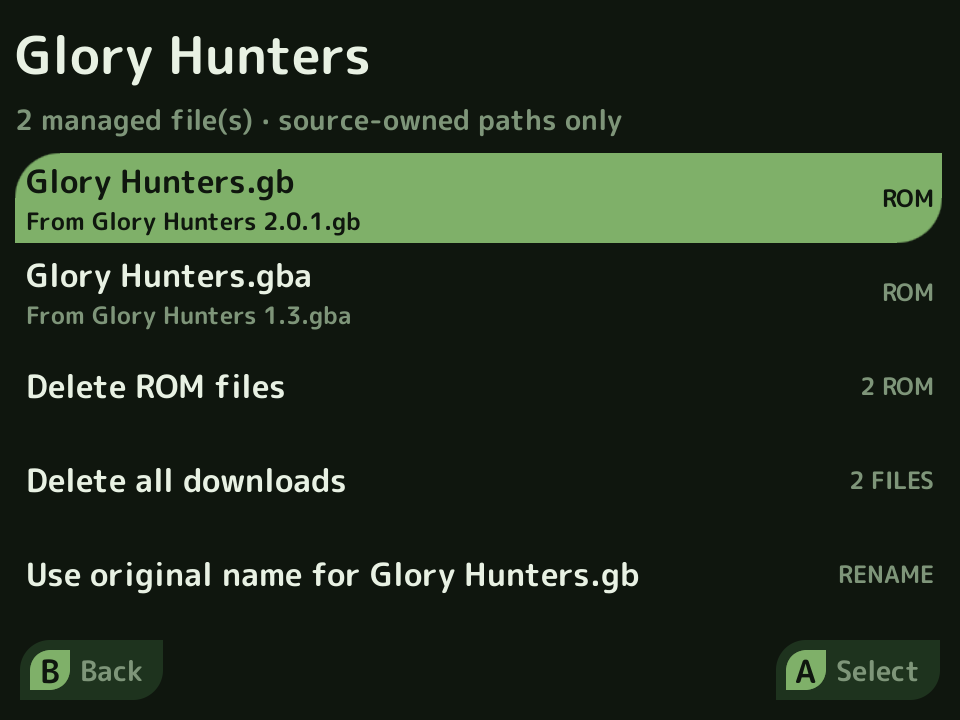
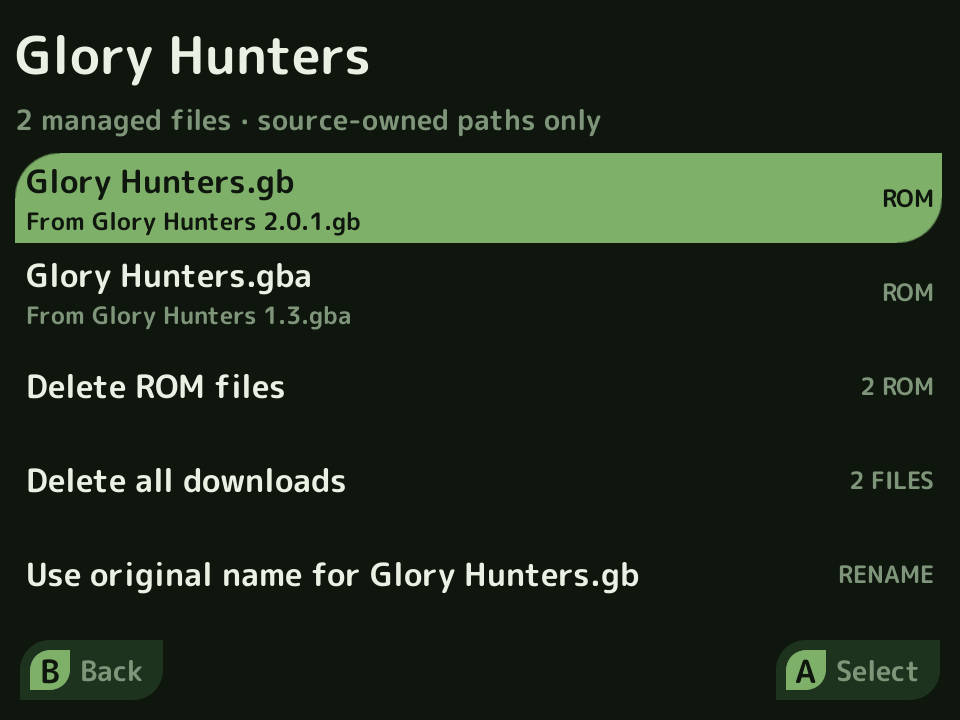
Release 0.2.0 (#53)
* Retake the four screenshots that later UI changes made stale

Four of the public screenshots from #45 no longer matched the app:

- content-warning.png: the warning now names the Heavy Themes filter and
  its footer reads STR Content Moderation (#46, #47).
- dual-sd-destination.png: A Select now sits on the right (#46).
- settings.png: the list now shows its scrollbar (#52).
- downloaded-manage.png: the subtitle reads "2 managed files" (#46).

They were retaken on the MLP1 with the 0.2.0 build, in the same states and
the same way as before (two identical kmsgrab frames, turned upright).
Settings is still captured with its account row scrolled off the screen.
The other four still match and are unchanged. The hashes in the README and
public-assets-check.py follow the new files.

* Prepare release 0.2.0

Bump pak.json, pakrat.json and the build scripts' default APP_VERSION to
0.2.0, and add docs/release-notes-v0.2.0.md.

The release workflow published docs/release-notes-v0.1.0.md for every tag;
it now publishes the notes named after the tag. pakrat-metadata-check.py
pinned the version to the literal "0.1.0"; it now requires pak.json,
pakrat.json and the Makefile, build.sh and package.sh defaults to agree, and
the release notes for that version to exist, so CI fails before a tag can
ship mismatched metadata or another release's notes. Its fixture test covers
both new failures.

The user guide said it covers 0.1.x and that the app is absent from the
[…]

Changed region(s): [[0.2188, 0.1528, 0.6562, 0.1833]]

diff --git a/scripts/pakrat-metadata-check-test.py b/scripts/pakrat-metadata-check-test.py
@@ -2,7 +2,9 @@
 """Fixture runs for pakrat-metadata-check.py.
 
 Copies the checked-in metadata into a temporary root, runs the check against
-it unchanged (must pass), then with a mismatched author (must fail).
+it unchanged (must pass), then with a mismatched author, a build script whose
+default version differs, and no release notes for the version (each must
+fail).
 """
 
 from __future__ import annotations
@@ -17,7 +19,16 @@ import tempfile
 
 ROOT = pathlib.Path(__file__).resolve().parent.parent
 CHECK = ROOT / "scripts" / "pakrat-metadata-check.py"
-FILES = ("pakrat.json", "pak.json", "release-lock.json")
+VERSION = json.loads((ROOT / "pak.json").read_text(encoding="utf-8"))["pak_version"]
+FILES = (
+    "pakrat.json",
+    "pak.json",
+    "release-lock.json",
+    "Makefile",
+    "scripts/build.sh",
+    "scripts/package.sh",
+    f"docs/release-notes-v{VERSION}.md",
+)
 
 
 def fail(message: str) -> None:
@@ -36,8 +47,18 @@ def fixture(parent: pathlib.Path, name: str) -> pathlib.Path:
     root = parent / name
     root.mkdir()
     for file in FILES:
+        (root / file).parent.mkdir(parents=True, exist_ok=True)
         shutil.copyfile(ROOT / file, root / file)
     return root
+
+
+def expect_failure(root: pathlib.Path, case: str, reason: str) -> None:
+    result = run_check(root)
+    output = f"{result.stdout}{result.stderr}"
+    if result.returncode == 0:
+        fail(f"{case} fixture passed; expected a failure")
+    if reason not in output:
+        fail(f"{case} failed for another reason: {output.strip()}")
 
 
 with tempfile.TemporaryDirectory(prefix="pakrat-metadata-check-") as tmp:
@@ -53,11 +74,20 @@ with tempfile.TemporaryDirectory(prefix="pakrat-metadata-check-") as tmp:
     metadata = json.loads(metadata_path.read_text(encoding="utf-8"))
     metadata["author"] = "Carroarmato0 & Someone Else"
     metadata_path.write_text(json.dumps(metadata, indent=2) + "\n", encoding="utf-8")
-    result = run_check(mismatched)
-    output = f"{result.stdout}{result.stderr}"
-    if result.returncode == 0:
-        fail("mismatched author fixture passed; expected a failure")
-    if "author" not in output:
-        fail(f"mismatched author failed for another reason: {output.strip()}")
+    expect_failure(mismatched, "mismatched author", "author")
+
+    stale = fixture(tmp_path, "stale-build-script")
+    script = stale / "scripts" / "package.sh"
+    script.write_text(
+        script.read_text(encoding="utf-8").replace(
+            f"APP_VERSION=${{APP_VERSION:-{VERSION}}}", "APP_VERSION=${APP_VERSION:-0.0.1}"
+        ),
+        encoding="utf-8",
+    )
+    expect_failure(stale, "stale build script", "scripts/package.sh default APP_VERSION")
+
+    unnoted = fixture(tmp_path, "missing-release-notes")
+    (unnoted / "docs" / f"release-notes-v{VERSION}.md").unlink()
+    expect_failure(unnoted, "missing release notes", f"release-notes-v{VERSION}.md")
 
 print("pakrat-metadata-check-test: PASS")

diff --git a/scripts/pakrat-metadata-check.py b/scripts/pakrat-metadata-check.py
@@ -58,7 +58,22 @@ packages = metadata.get("leaf", {}).get("packages", [])
 require(isinstance(packages, list) and len(packages) == 1, "exactly one Leaf package is required")
 package = packages[0]
 require(package.get("platform") == "mlp1", "package platform must be mlp1")
-require(package.get("version") == runtime.get("pak_version") == "0.1.0", "Pak Rat and runtime versions must agree")
+version = runtime.get("pak_version")
+require(isinstance(version, str) and re.fullmatch(r"\d+\.\d+\.\d+", version) is not None,
+        "pak.json pak_version must be X.Y.Z")
+require(package.get("version") == version, "Pak Rat and runtime versions must agree")
+# The build scripts stamp their default APP_VERSION into the binary and the
+# packaged pak.json, and the release workflow publishes the notes for the tag.
+for name, pattern in (
+    ("Makefile", r"^APP_VERSION \?= (\S+)$"),
+    ("scripts/build.sh", r"^APP_VERSION=\$\{APP_VERSION:-([^}]+)\}$"),
+    ("scripts/package.sh", r"^APP_VERSION=\$\{APP_VERSION:-([^}]+)\}$"),
+):
+    match = re.search(pattern, (ROOT / name).read_text(encoding="utf-8"), re.MULTILINE)
+    require(match is not None and match.group(1) == version,
+            f"{name} default APP_VERSION must be {version}")
+require((ROOT / "docs" / f"release-notes-v{version}.md").is_file(),
+        f"docs/release-notes-v{version}.md is required")
 require(package.get("artifact_name") == "Itch-io.mlp1.pak.zip", "unexpected artifact name")
 require(package.get("install_name") == "Itch-io.pak", "unexpected install name")
 require(package.get("runtime_manifest_path") == "pak.json", "unexpected runtime manifest path")

diff --git a/scripts/public-assets-check.py b/scripts/public-assets-check.py
@@ -14,11 +14,11 @@ EXPECTED = {
[12 lines of base64/hex data omitted]
 }
 FORBIDDEN_METADATA = {b"tEXt", b"zTXt", b"iTXt", b"eXIf"}
 

diff --git a/docs/release-notes-v0.2.0.md b/docs/release-notes-v0.2.0.md
@@ -1,0 +1,99 @@
+# Itch.io for Leaf 0.2.0
+
+This is an unofficial itch.io client for Leaf on the Miniloong Pocket 1. It is
+not affiliated with or endorsed by itch.io.
+
+This release replaces the typed API key with sign-in by QR code, moves owned
+downloads to itch.io's current API, makes the game list smooth to move through
+even with the full catalog, and fixes many download, archive and screen
+details.
+
+## Upgrading from 0.1.0
+
+0.1.0 stored a typed itch.io API key. On first start, 0.2.0 removes that key
+and the list of games it owned, and opens Settings so you can sign in again.
+Your downloads and inventory stay as they are.
+
+## What's new
+
+### Sign in with a QR code
+
+- Open **Start > Settings > itch.io Account**, or press **A** on a paid game,
+  scan the code with your phone, and approve Leaf on itch.io. You no longer
+  type a key.
+- **Sign Out** clears the key and the list of games you own, and keeps your
+  downloads.
+- Signed in, free and pay-what-you-want games download through the itch.io
+  API, with the web download page as a fallback.
+
+### Downloads and archives
+
+- Owned games download through itch.io's current API.
+- When itch.io asks the app to slow down, it stops and asks you to try again
+  later. A stalled download stops instead of hanging.
+- ZIP and 7z selections leave out Markdown files, soundtrack tracks with the
+  same name are all kept, and a replaced upload no longer removes the wrong
+  file.
+- Manage shows which archive a file came from and can restore an archive
+  ROM's original name.
+- Pico-8 sets keep their names, and each file of a multi-file set keeps its own
+  record.
+- A game's page checks for newer uploads without downloading them, and Manage
+  still works when the page fails to load.
+- A file for a system the app can't install, such as Nintendo DS, says so
+  instead of asking you to choose a format.
+
+### Game list
+
+- Holding the d-pad moves through the list smoothly and at a steady pace, even
+  with all 11,000+ games showing, and a press shows on screen right away.
+- Cover art loads once you stop on a game instead of for every game you pass.
+- Long titles end in "..." before the price.
+- The list checks the newest pages of each feed for new games once a day and
+  rebuilds fully once a week. If one feed fails, the other systems still
+  update.
+
+### Screens
+
+- Settings, Content Moderation and long text show a scrollbar when there is
+  more to see.
+- Prompts list files two lines each, and **Left** and **Right** page through
+  them.
+- Errors read as plain sentences.
+- The content warning names the categories that matched.
+- About shows the installed Leaf version, and the Leaf library rescan result
+  shows as soon as it arrives.
+
+## Requirements and installation
+
+- Leaf on MLP1 with Jawaka 0.5.5 or newer.
+- Install or update through Pak Rat: press **Menu**, open **Actions > Pak
+  Rat**, and choose **Itch.io**.
+- Manual fallback: verify the checksum, extract the single `Itch-io.pak`
+  directory, and copy it to `Apps/mlp1/`.
+- This app is optional and is not included in Leaf SD release ZIPs.
+
+## Sign-in key and privacy
+
+When you sign in, itch.io gives the app a key. It is stored in app data on the
+SD card and is not encrypted. FAT32 cannot protect it from someone with
+physical access to the card. The key never appears on screen, and logs redact
+credentials, account identifiers, and signed download URLs. The app cannot
+revoke the key on itch.io, so delete it from your itch.io account's API keys if
+you lose the card.
+
+## Content-warning defaults
+
+- Adult/suggestive content: on
+- Heavy themes: on
+- Substance use: on
+- Queer/LGBTQ+ themes: off
+
+Warnings are tag-based confirmations. They do not delete or silently hide
+games.
+
+## Provenance
+
+UMRK preserves the upstream history, attribution, and MIT license from
+Carroarmato0's NextUI-Itchio-Pak. The Leaf port uses an original UMRK icon and
+Catastrophe UI, and supports only the Leaf MLP1 runtime.

diff --git a/docs/screenshots/README.md b/docs/screenshots/README.md
@@ -14,11 +14,11 @@ scrolled off the screen, and the content warning is a **Heavy Themes** one.
[12 lines of base64/hex data omitted]
 
 `scripts/public-assets-check.py` checks each file's size and hash and that it
 carries no text or EXIF metadata. `make test` runs it.

diff --git a/docs/user-guide.md b/docs/user-guide.md
@@ -1,18 +1,14 @@
 # Leaf Itch.io Pak user guide
 
-This guide covers Leaf-Itchio-Pak `0.1.x` on the Miniloong Pocket 1. The app is
+This guide covers Leaf-Itchio-Pak `0.2.x` on the Miniloong Pocket 1. The app is
 unofficial and is not affiliated with or endorsed by itch.io.
 
 ## Availability and installation
 
-The public distribution route is Pak Rat, but the app is intentionally absent
-from the production catalogue until all verification gates pass. It is never a
-default Leaf app.
-
-After publication, install **Itch.io** from Pak Rat. If Pak Rat is unavailable,
-download the matching `Itch-io.mlp1.pak.zip` GitHub release asset, verify its
-published SHA-256, and extract its single `Itch-io.pak` directory to
-`Apps/mlp1/` on the Leaf SD card. Do not rename the pak directory or place it in
+Install or update **Itch.io** from Pak Rat. It is never a default Leaf app. If
+Pak Rat is unavailable, download the matching `Itch-io.mlp1.pak.zip` GitHub
+release asset, verify its published SHA-256, and extract its single
+`Itch-io.pak` directory to `Apps/mlp1/` on the Leaf SD card. Do not rename the pak directory or place it in
 another platform folder. Jawaka `0.5.5` or newer is required.
 
 ## Browsing
